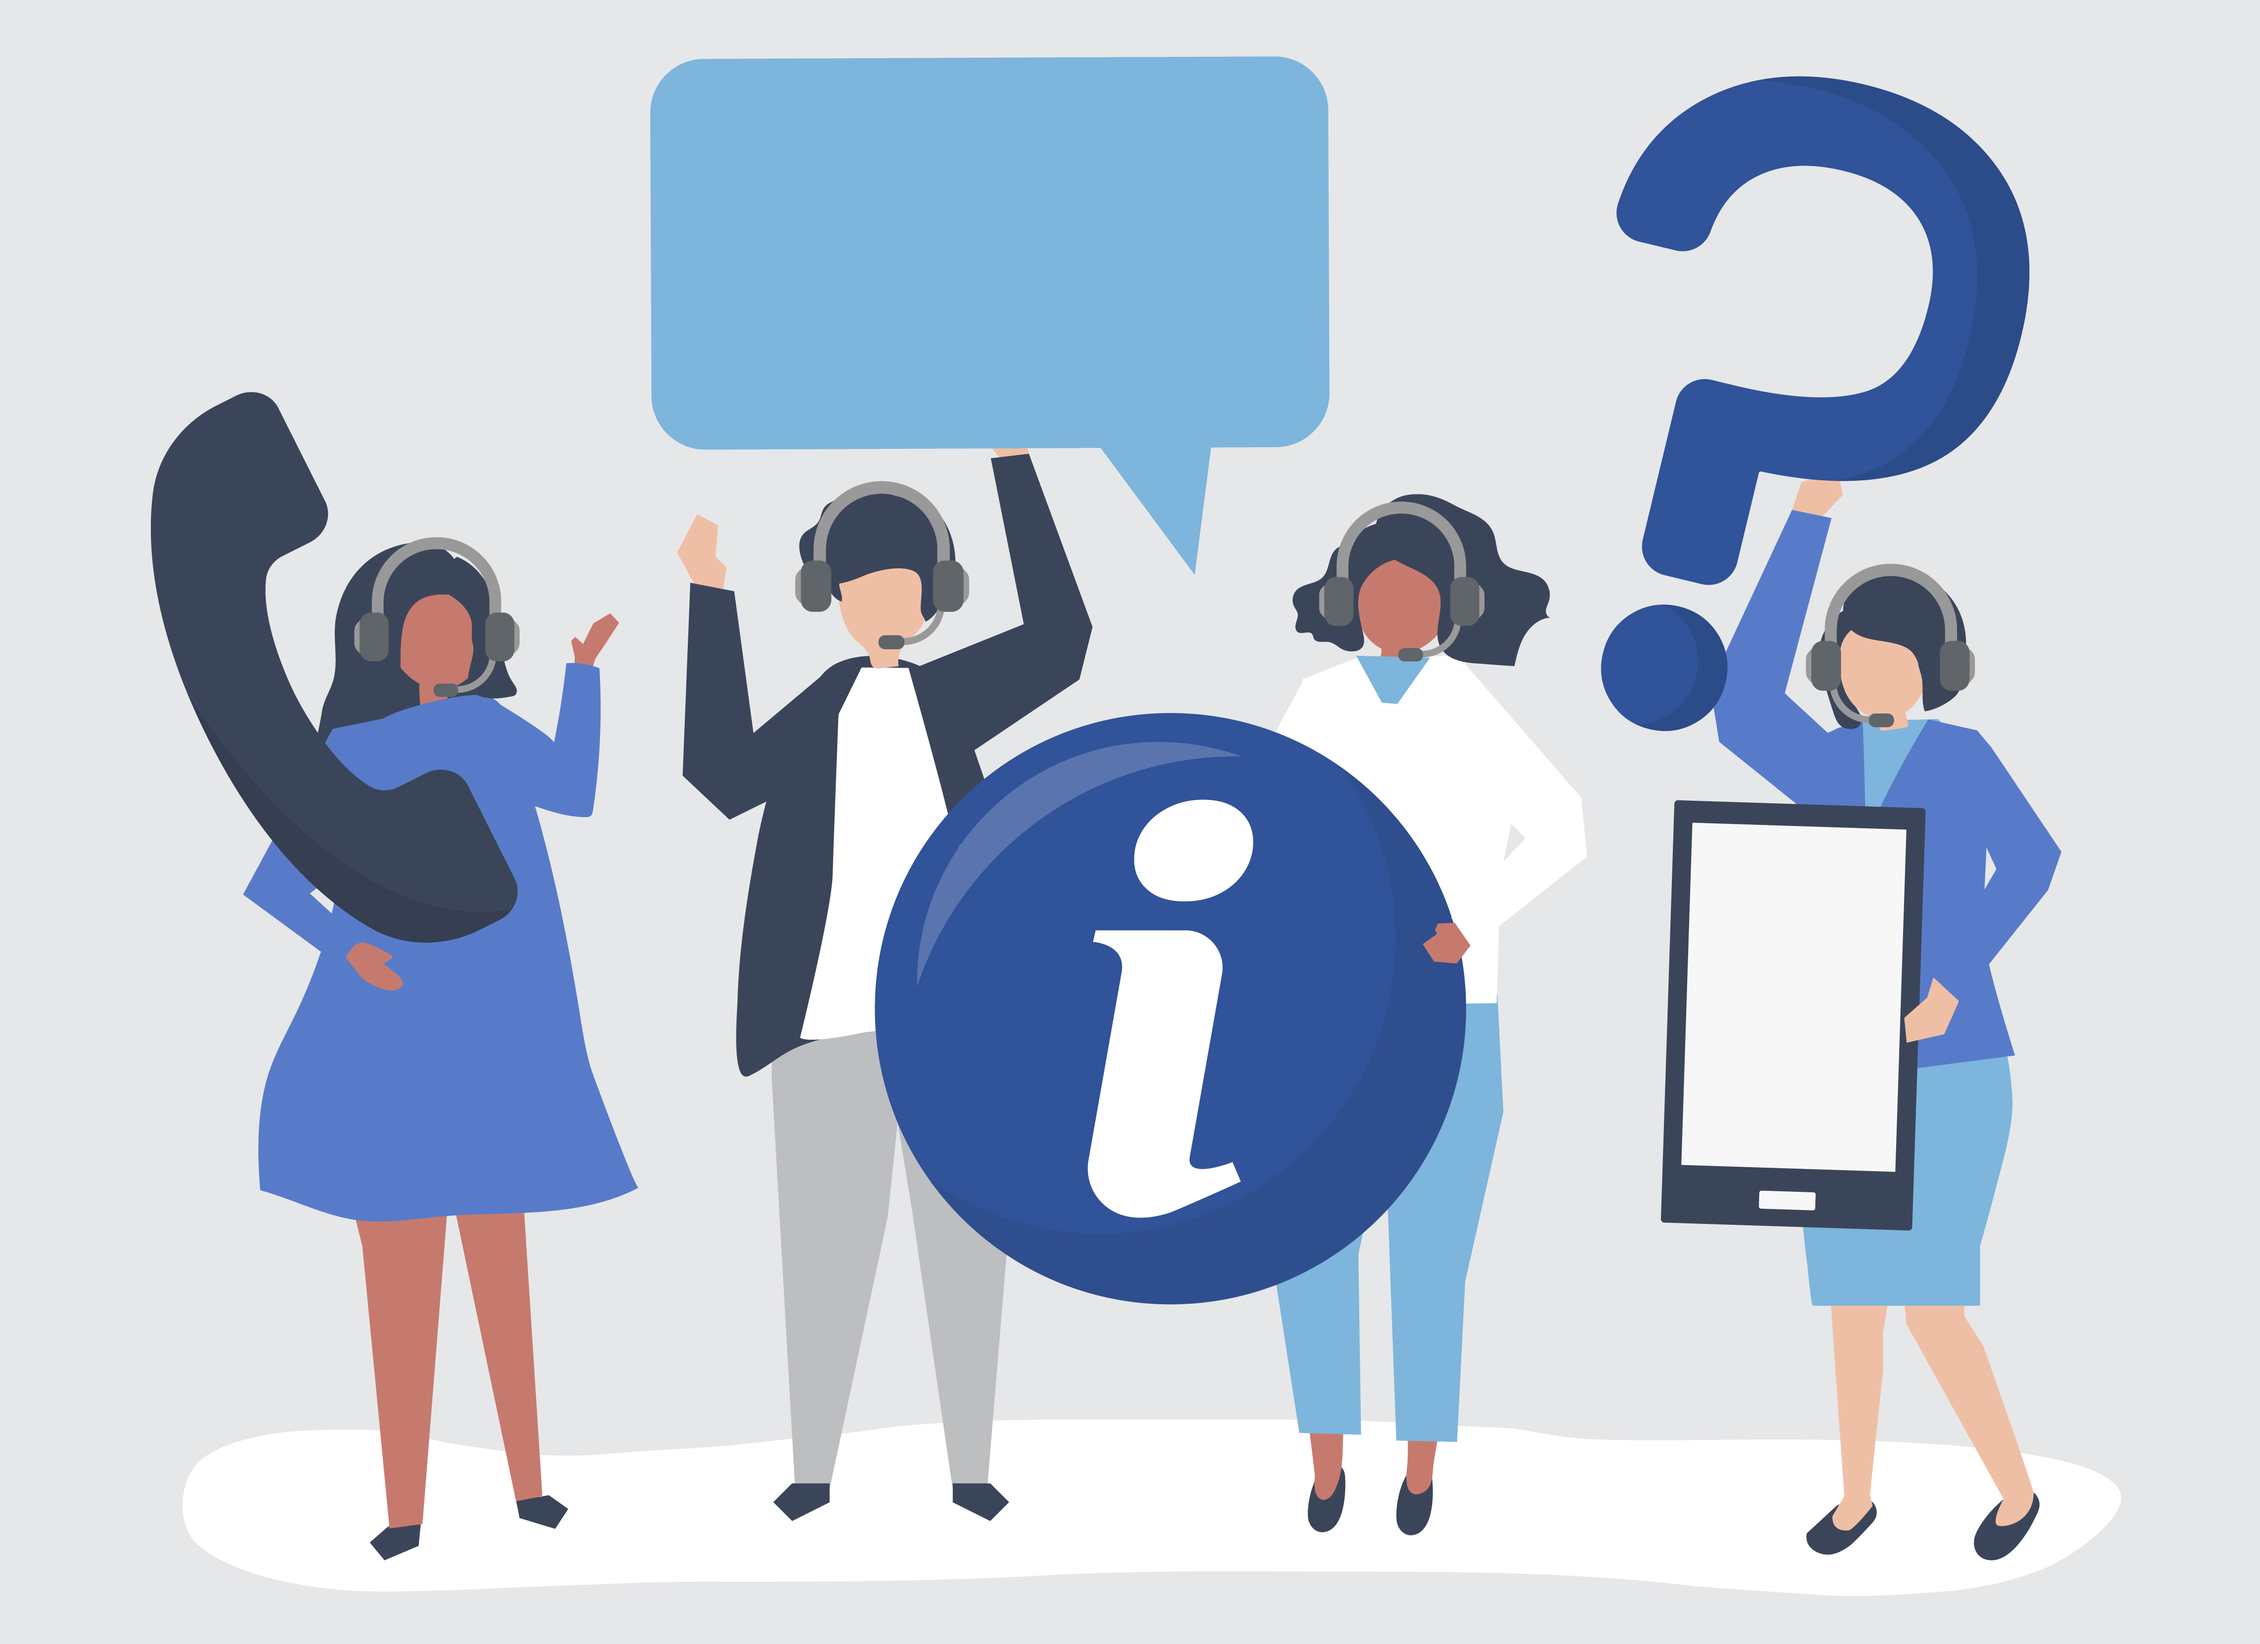
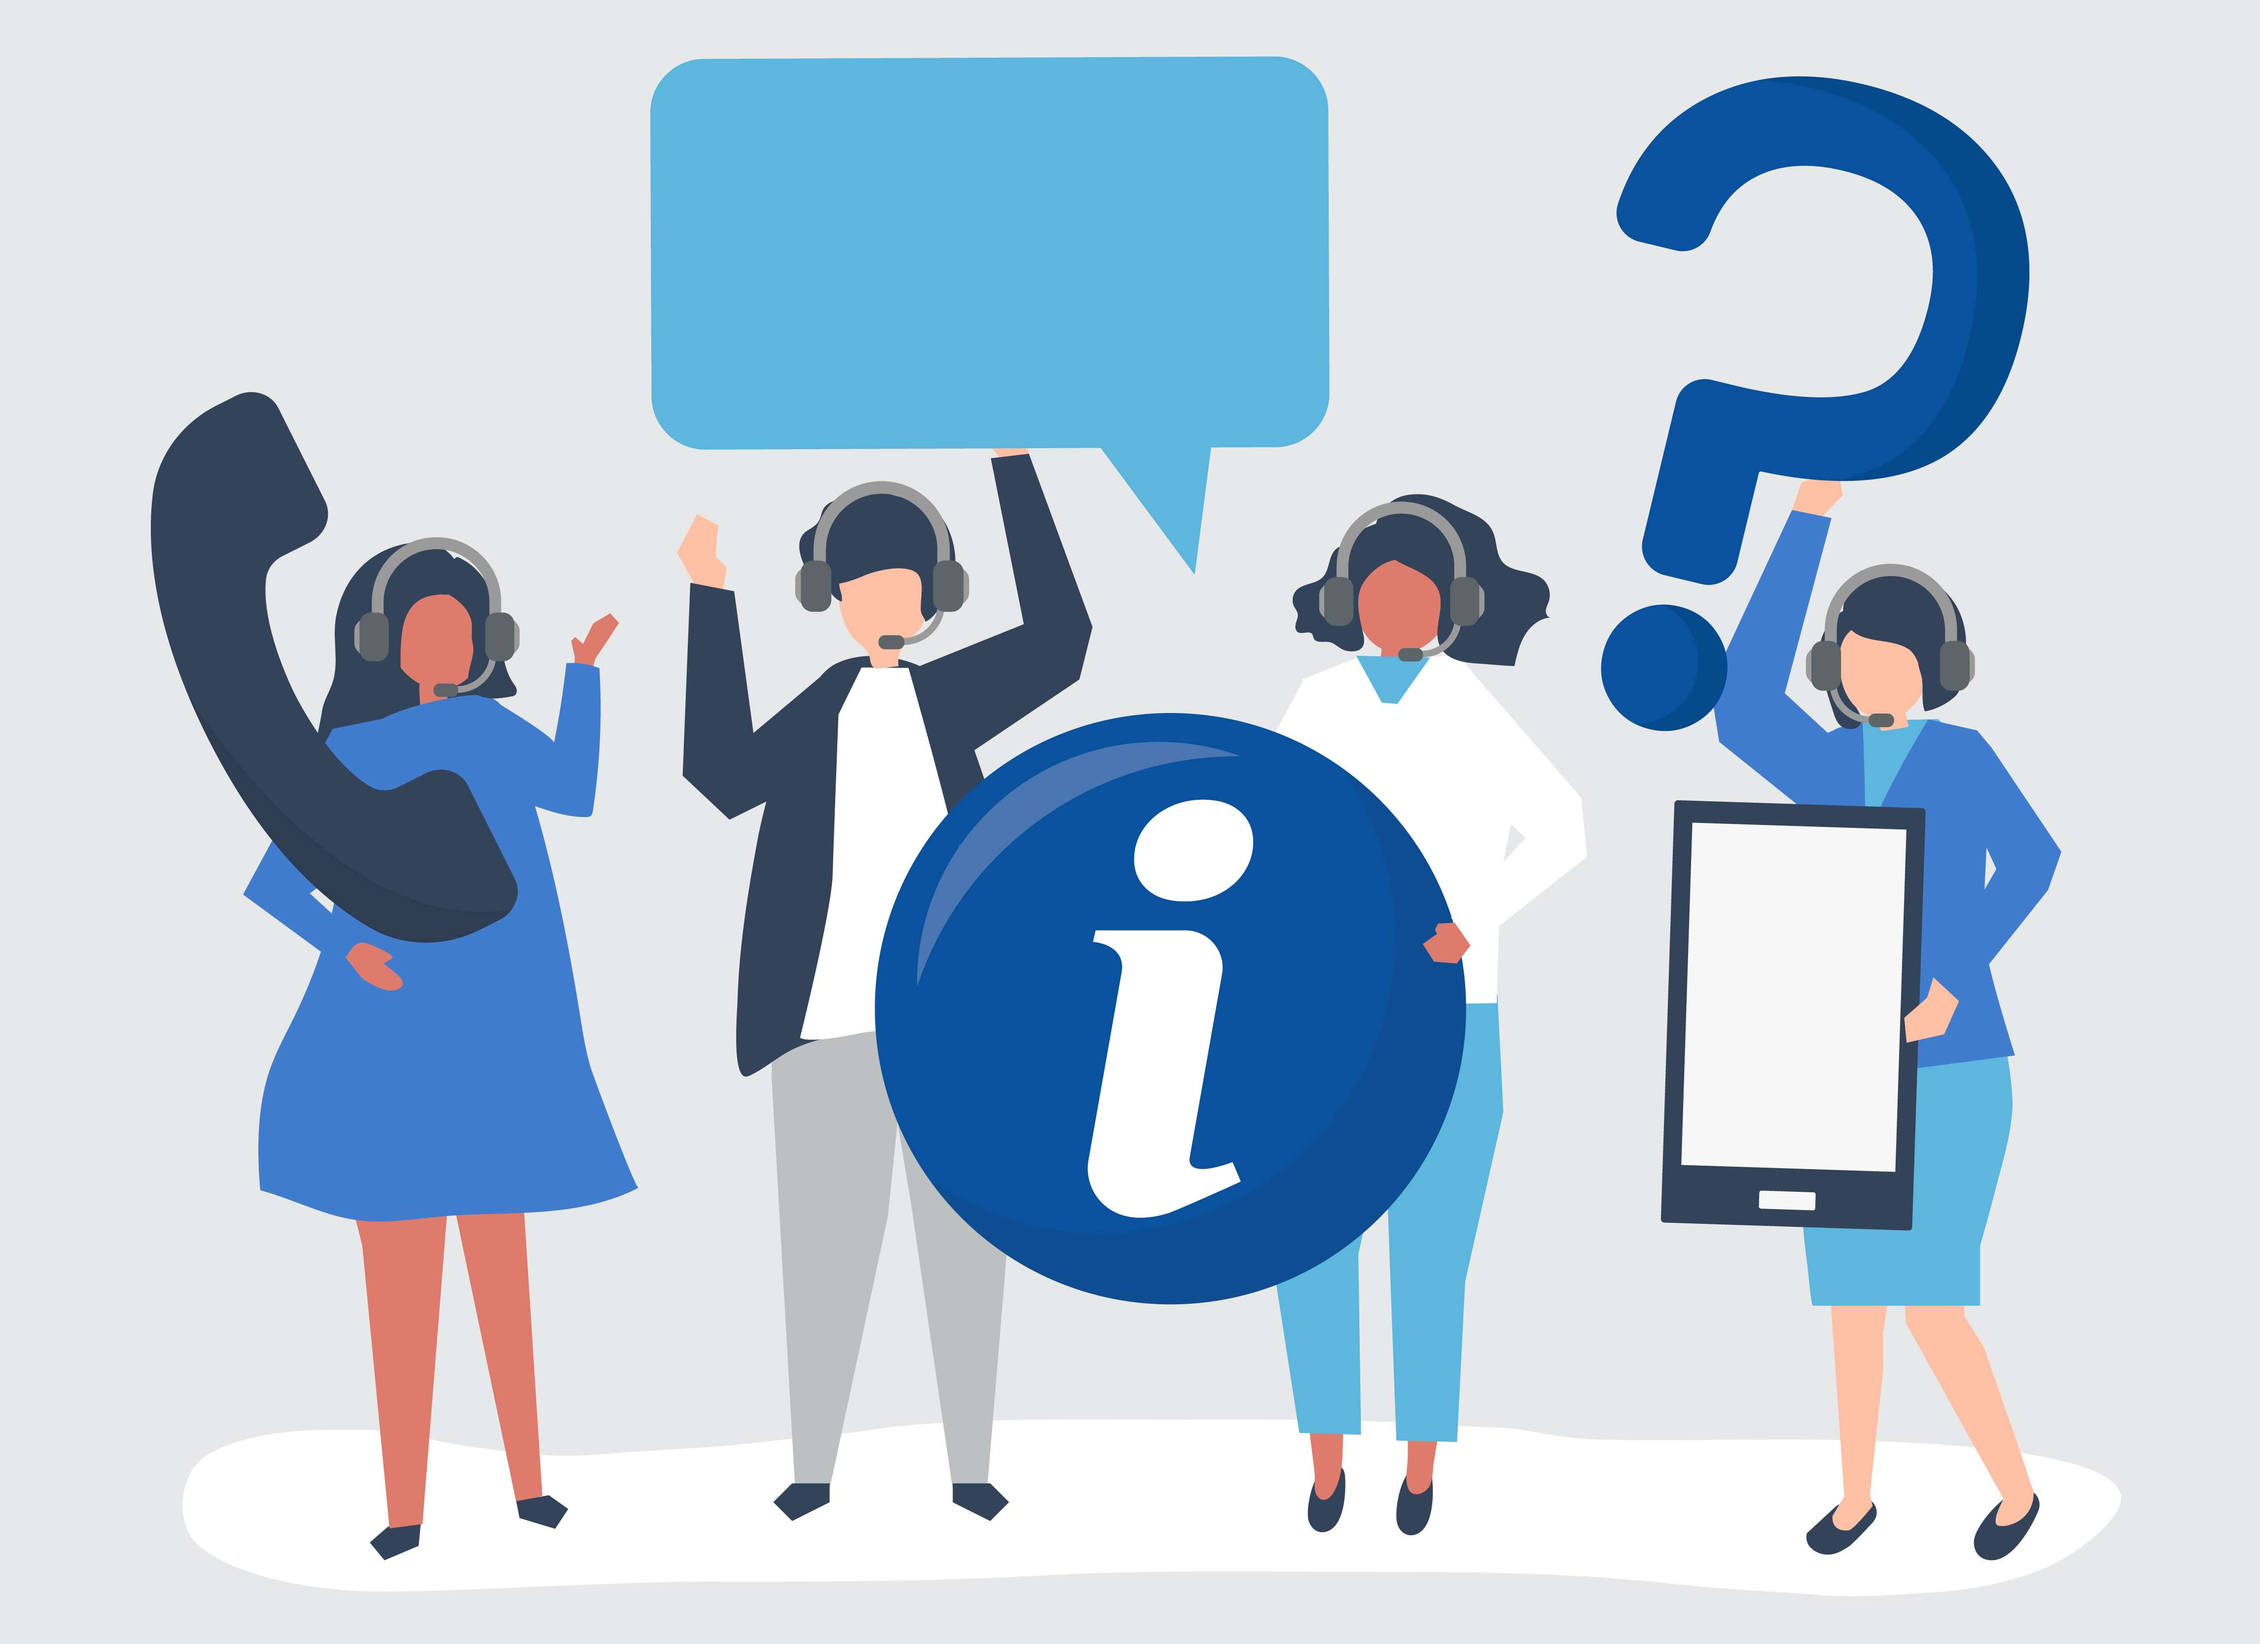
Pics compressed

diff --git a/src/index.css b/src/index.css
@@ -102,7 +102,8 @@ body {
 
 .main-section {
   /* background-image: url('./images/casey-horner-RmoWqDCqN2E-unsplash.jpg'); */
-  background-image: url('./images/10857.jpg');
+  /* background-image: url('./images/10857.jpg'); */
+  background-image: url('./images/10857-compressed.jpg');
   /* background-image: url('./images/starry-night.jpg'); */
   background-size: cover;
   background-repeat: no-repeat;

diff --git a/src/components/Home.js b/src/components/Home.js
@@ -1,7 +1,7 @@
 import React, { useEffect } from 'react';
 import MainSection from './mainSection';
 import AboutSection from './aboutSection';
-import CardsSection from './cardsSection';
+import CardsSection from './CardsSection';
 import Navbar from './Navbar';
 import ObjectiveSection from './ObjectiveSection';
 import ContactSection from './Contact';
